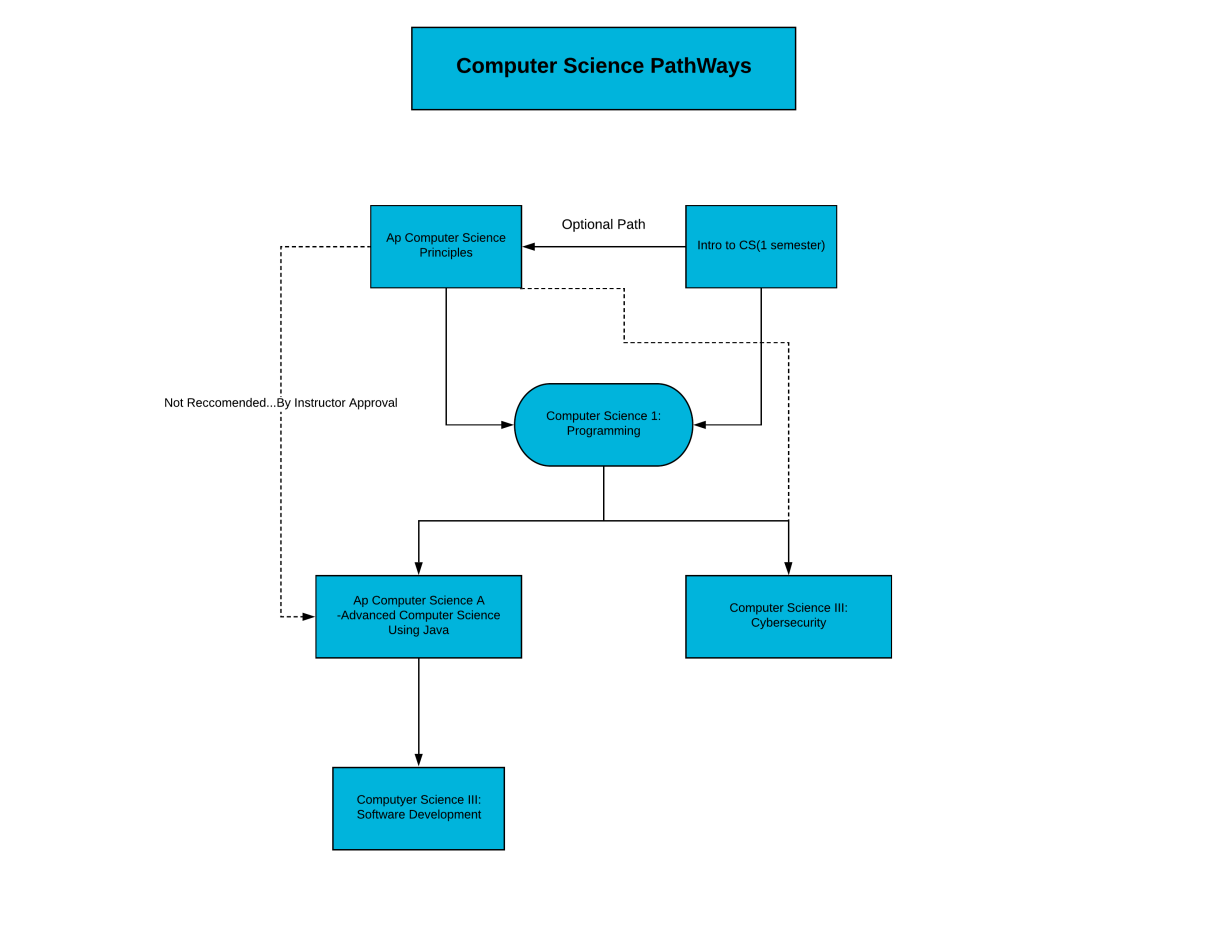
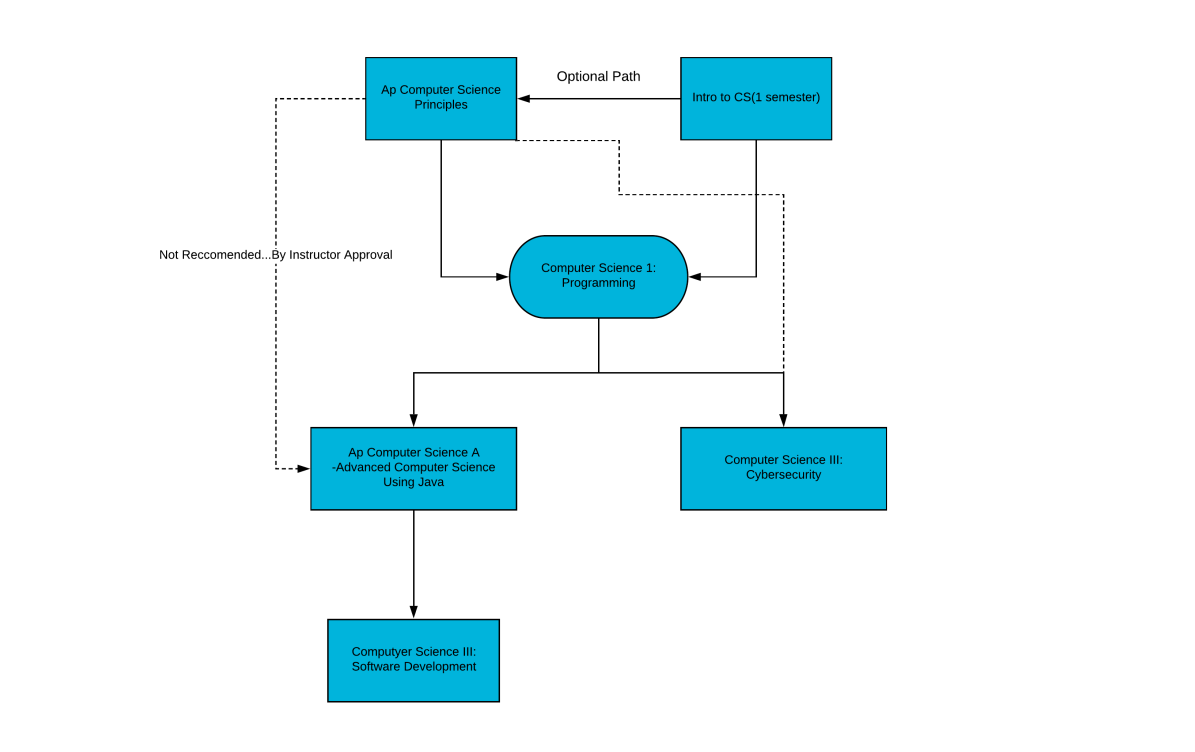
course links and backtop added

diff --git a/src/Data.js b/src/Data.js
@@ -103,63 +103,65 @@ export const otherClubInfo = {
 //courses and other learning resources
 export const courses = [
     {
-        name: "Intro to CS I",
+        name: "Intro to Computer Science",
         description: "Intro to Computer Science is a one-semester, beginner level computer science course intended for students in grades 9-10. The class includes block-based programming and problem-solving for students, and the class requires no prior computer science knowlege. \nPrerequisites: None. \nCredits: Fufills business graduation credit.",
-        url: "https://hsecourses.netlify.app/course/"
+        url: "https://hsecourses.netlify.app/course/introduction-to-computer-science"
     },
     {
         name: "AP Computer Science Principles (AP CSP)",
         description: "AP Computer Science Principles is an advanced placement, year-long, college-level computer science course aimed at teaching students 5 fundamental concepts of computer science throughout the year: Creative Development, Data, Algorithms and Programming, Computer Systems and Networks, and the Impact of Computing. This course is intended for all college bound students, not just those with a strong interest in computer science, and is inteded for students in grades 9-12.\nPrerequisites: Algebra I. \nCredits: Fufills business graduation credit and counts as 3rd science credit for Core 40 Diploma.",
-        url: "https://hsecourses.netlify.app/course/"
+        url: "https://hsecourses.netlify.app/course/ap-computer-science-principles"
     },
     {
         name: "CS I: Programming",
         description: "Computer Science I: Programming is a year-long course that focuses solely on introducing students to programming and teaching students the latest indsutry tools used in the field for grades 9-12. \nPrerequisites: Algebra I.\n Credits: Fufills business graduation credit and counts as 3rd science credit for Core 40 Diploma.",
-        url: "https://hsecourses.netlify.app/course/"
+        url: "https://hsecourses.netlify.app/course/computer-science-i-(programming)"
     },
     {
         name: "AP Computer Science A (Java) (AP CS A)",
         description: "AP Computer Science A (Java) is an advanced placement, year-long, college-level computer science course that focuses on teaching students Object-Oriented programming through the programming language Java. The classes prepares students for the AP Computer Science A Exam, which tests on concepts such as primitive types, objects, boolean expressions and conditionals, iteration, classes, single and multi-dimensional arrays, ArrayList, inheritance, and recursion. This class is recommended for students grades 10-12 that have taken a computer science course prior. Prerequisites: Computer Science I/AP Computer Science Principles (Subject to instructor approval). Credits: Counts as 3rd science credit for Core 40 Diploma.",
-        url: "https://hsecourses.netlify.app/course/"
+        url: "https://hsecourses.netlify.app/course/ap-computer-science-a"
     },
     {
         name: "CS III: Cybersecurity",
         description: "Computer Science III: Cybersecurity is a year long course inteded to teach students in grades 10-12 about the fundamentals of cybersecurity in the modern world, discussing topics such as security principles, personal security, cryptography, physical security, web security, malicious software, and networking fundamentals.\nPrerequiste: AP CS Principles or Computer Science I. \nCredits: Counts as 3rd science credit for Core 40 Diploma.",
-        url: "https://hsecourses.netlify.app/course/"
+        url: "https://hsecourses.netlify.app/course/computer-science-iii:-cybersecurity"
     },
     {
         name: "CS III: Software Development",
         description: "Computer Science III: Software Development is a year long course intended to help students learn the latest industry tools for web and mobile application development through self-study and collaboration. Students are encouraged to make an application for a client second semester and are expected to study and research the necessary tools for such development themselves. \nPrerequisite: AP Computer Science A (Java). Credits: Counts as 3rd Science Credit for Core 40.",
-        url: "https://hsecourses.netlify.app/course/"
+        url: "https://hsecourses.netlify.app/course/computer-science-iii:-software-development"
     },
     {
         name: "Interactive Media",
         description: "Interactive media is a semester long course for grades 10-12 that emphasizes the development of digitially generated or computer enhanced products using multimedia technologies. Such technologies include: video/audio production; digitial imaging; animation; website design, development, and management. This class also allows students to gain experience in various Adobe Suite applications, such as Illustrator, After Effects, Premiere Pro, Photoshop, etc.\nPrerequisites: None. \nCredits: Elective.",
-        url: "https://hsecourses.netlify.app/course/",
+        url: "https://hsecourses.netlify.app/course/interactive-media",
     },
     {
-        name: "Tech Squad (Cyberroyals Internship)",
-        description: "Tech Squad is for students in grades 10-12 who would like to help students and teachers at HSE or elsewhere with their devices and software through general technical support or repairs. Students can join by signing up through the Career Internship application to be placed as an intern at the HSE tech department or in another building.\nPrerequisites: None, however some technical knowledge is expected. \nCredits: Elective."
+        name: "Exploration Internship - Cyberoyals Tech Squad",
+        description: "Tech Squad is for students in grades 10-12 who would like to help students and teachers at HSE or elsewhere with their devices and software through general technical support or repairs. Students can join by signing up through the Career Internship application to be placed as an intern at the HSE tech department or in another building.\nPrerequisites: None, however some technical knowledge is expected. \nCredits: Elective.",
+        url: "https://hsecourses.netlify.app/course/career-exploration-internship---cyberoyals-tech-squad"
     },
     {
-        name: "Digital Applications and Responsibility (Digital Apps)",
-        description: "Digital Applications and Responsibility is a semester long course for students in grades 9-12 to learn how to work with Microsoft products such as powerpoint, word, and excel. Students also learn how to use spreadsheets, present to one another, and collaboration skills. \nPrerequisites: None. \nCredits: Fufills Business graduation credit, dual credit through IU. "
+        name: "Digital Applications and Responsibilities (Digital Apps)",
+        description: "Digital Applications and Responsibility is a semester long course for students in grades 9-12 to learn how to work with Microsoft products such as powerpoint, word, and excel. Students also learn how to use spreadsheets, present to one another, and collaboration skills. \nPrerequisites: None. \nCredits: Fufills Business graduation credit, dual credit through IU.",
+        url: "https://hsecourses.netlify.app/course/digital-applications-and-responsibilities"
     },
     {
-        name: "Ivy Tech - Infomatics & Networking",
-        description: "This year-long dual credit course through Ivy Tech offers students in grades 11-12 an opportunity to take 4 dual credit courses at Ivy Tech that are intended to prepare them for the CompTIA A+ and Network+ Certiication exams. Students attend 4 times a week, with a flex on the fifth day, from 12:15-2:15 at Ivy Tech Noblesville with transport provided. \nPrerequistes: CS I. \nCredits: 4 Dual Credits from Ivy Tech."
+        name: "IT Pathways: Coding, Networking, and Cybersecurity I and II",
+        description: "3 hr each - Cyber Security, Networking, and Coding! In this IT Pathway course, you will explore the world of Information Technology during your first year, then dive deeper into a specific field of your choice during your second year. Utilize CISCO software and participate in hands-on activities. Immerse yourself into projects related to authentic challenges and solutions found in current IT careers. Jumpstart your college and career goals by earning dual credits and certifications. \n ● Dual Credit: Ivy Tech (6-12 credits) INFM 109, SDEV 120; ITSP 15, DBMS 110 or ITSP 175, NETI 119 \n ● Certifications Available: CompTIA ITF+",
+        url: "https://hsecourses.netlify.app/course/it-pathways:-coding,-networking,-and-cybersecurity-i-and-ii"
     },
     {
-        name: "Career Internship",
-        description: "Career internships can be semester or year-long, and allow for 12th grade students to gain valuable, real-life experience in the computer science field prior to going to college or entering the workforce. Students attend for 1-2 periods, with 2 being recommended for those that have after school commitments. \nPrerequisites: Instructor and Counselor Approval. \nCredits: Elective."
+        name: "Career Exploration Internship",
+        description: "Career internships can be semester or year-long, and allow for 12th grade students to gain valuable, real-life experience in the computer science field prior to going to college or entering the workforce. Students attend for 1-2 periods, with 2 being recommended for those that have after school commitments. \nPrerequisites: Instructor and Counselor Approval. \nCredits: Elective.",
+        url: "https://hsecourses.netlify.app/course/career-exploration-internship"
     },
     {
         name: "Advance Career & Technical Ed College Credit",
         description: "This semester long course allows for students in grades 11-12 to gain credits at IUPUI Computing and Informatics classes, with a 50% discount for high school students. Students must be accepted as a high school student through IU, visit the link provided for more details. Prerequisites: Instructor, Counselor, IU Approval. \nCredits: IUPUI Computing and Informatics Credits.",
         url: "https://span.iupui.edu/about-the-program/programs/eligibility/computer-tech-program.html"
-    }
-
-   
+    }   
 ]
 export const recommendations = {
     "CS": [
@@ -240,12 +242,12 @@ export const projects = [
     {
         name: "Club Projects",
         projects: [
-            {
-                name: "HSE Apps",
-                description: "Group of students creating applications for HSE.",
-                image: hseappsProjects,
-                link: "https://hseapps.org/products"
-            },
+            // {
+            //     name: "HSE Apps",
+            //     description: "Group of students creating applications for HSE.",
+            //     image: hseappsProjects,
+            //     link: "https://hseapps.org/products"
+            // },
             {
                 name: "HSE Clubs",
                 description: "Manage, browse, and join clubs in one central place at HSE.",

diff --git a/src/components/Courses.js b/src/components/Courses.js
@@ -11,9 +11,8 @@ const Courses = () => {
 
             <div style={title}>Computing Courses At HSE</div>
             <div style={section}>
-                
                 <List
-                    style={{width:"65%", borderRadius:"15px", marginLeft: "auto", marginRight: "auto"}}
+                    style={{width:"100%", borderRadius:"15px", marginLeft: "auto", marginRight: "auto"}}
                     dataSource={courses}
                     bordered={true}
                     renderItem={item => 
@@ -22,13 +21,14 @@ const Courses = () => {
                                 title={item.name}
                                 description={item.description}
                             />
-                            <a href={item.url} target="_blank">More Info</a>
+                            <a style={{marginLeft:"20px"}} href={item.url} target="_blank">More Info</a>
                         </List.Item>
                     }
                 ></List>
-
             </div>
-            <img src={pathways} style={{width: "80%", marginTop: "0px", marginBottom: "50px"}}/>
+
+            <div style={title}>Computer Science Pathways (Prerequisites Web)</div>
+            <img src={pathways} style={{width: "80%", margin:"0 0 40px"}}/>
             
             <div style={title}>Sample Schedules for Certain Paths</div>
             <div style={{fontWeight: "500", fontSize: "10px", color: "rgba(0, 0, 0, 0.45)"}}>Don't need to take all courses listed in a particular year</div>
@@ -82,3 +82,4 @@ const Courses = () => {
 }
 
 export default Courses
+

diff --git a/src/components/Projects.js b/src/components/Projects.js
@@ -11,19 +11,21 @@ const Projects = () => {
             {projects.map((category) => 
                 <>
                     <div style={title}>{category.name}</div>
-                    <div style={section}>
+                    <div style={{...section, justifyContent:"space-evenly"}}>
                         {category.projects.map((item) => 
                             <Card 
                                 style={{
                                     borderColor:"#d9d9d9", 
                                     borderRadius:"15px", 
-                                    width: 95/category.projects.length + "%"
+                                    width: "28%"
                                 }}
                                 title={item.name}
                             >
                                 <div>{item.description}</div>
-                                <img src={item.image} style={{width:"100%", margin:"15px 0 15px 0", border:"1px solid #f0f0f0", borderRadius:"10px"}}></img>
-                                <a href={item.link}>Learn More</a>
+                                <div style={{display:"flex", justifyContent:"center"}}>
+                                    <img src={item.image} style={{margin:"30px 0", maxHeight:"200px", maxWidth:"100%"}}></img>
+                                </div>
+                                <div><a href={item.link} target="_blank">Learn More</a></div>
                             </Card>
                         )}
                     </div>

diff --git a/src/components/Navbar.js b/src/components/Navbar.js
@@ -39,8 +39,10 @@ const Navbar = () => {
             }}>
                 <div style={block}>
                     <img src={logo} style={{width:"50px"}}/>
+                    &nbsp;&nbsp; 
                     <div style={{color:"white", fontWeight:"500", fontSize:"24px"}}>HSE CS</div>
                 </div>
+
                 {width > 1200?
                     <>
                         <div style={{...block, height:"30px"}}>
@@ -74,7 +76,7 @@ const Navbar = () => {
                             overlay= {
                                 <Menu
                                     onClick={(e) => {setTab(e.key)}}
-                                    style={{margin:"25px -10px 0 0", background:"gray", borderRadius:"10px"}}
+                                    style={{margin:"25px -10px 0 0", background:"rgb(53, 122, 196)", borderRadius:"10px"}}
                                 >
                                     {tabs.map((item, index) => 
                                         <Menu.Item style={{color:"white", fontSize:"20px"}} key={index+1}>

diff --git a/src/App.css b/src/App.css
@@ -64,7 +64,7 @@ html {
 
 .ant-menu-horizontal:not(.ant-menu-dark) > .ant-menu-item:hover, .ant-menu-horizontal:not(.ant-menu-dark) > .ant-menu-submenu:hover, .ant-menu-horizontal:not(.ant-menu-dark) > .ant-menu-item-active, .ant-menu-horizontal:not(.ant-menu-dark) > .ant-menu-submenu-active, .ant-menu-horizontal:not(.ant-menu-dark) > .ant-menu-item-open, .ant-menu-horizontal:not(.ant-menu-dark) > .ant-menu-submenu-open, .ant-menu-horizontal:not(.ant-menu-dark) > .ant-menu-item-selected, .ant-menu-horizontal:not(.ant-menu-dark) > .ant-menu-submenu-selected {
   color: #1890ff;
-  border-bottom: 3px solid white; 
+  border-bottom: 4px solid white; 
 }
 .ant-menu-item {
   height: calc(39px + .4vw + 20px);

diff --git a/src/components/BackToTop.js b/src/components/BackToTop.js
@@ -1,0 +1,19 @@
+import React from 'react'
+
+import {BackTop} from 'antd'
+import {ArrowUpOutlined} from '@ant-design/icons'
+
+
+const BackToTop = () => (
+  <BackTop>
+    <div 
+      style={{height: "50px", width: "50px", borderRadius: "5px",
+      display:"flex", justifyContent:"center", alignItems:"center",
+      backgroundColor: 'rgb(53, 122, 196)', color: 'white'}}
+    >
+      <ArrowUpOutlined style={{color:"white", fontSize: "25px"}}/>
+    </div>
+  </BackTop>
+)
+
+export default BackToTop

diff --git a/src/App.js b/src/App.js
@@ -1,11 +1,16 @@
-import Navbar from './components/Navbar'
 import React from 'react'
 import "antd/dist/antd.css";
 import "./App.css"
 
+import Navbar from './components/Navbar'
+import BackToTop from './components/BackToTop'
+
 const App = () => {
   return (
-    <Navbar/>
+    <>
+      <BackToTop/>
+      <Navbar/>
+    </>
   )
 }
 

diff --git a/public/index.html b/public/index.html
@@ -2,6 +2,7 @@
 <html lang="en">
   <head>
     <meta charset="utf-8" />
+    <link rel="icon" href="%PUBLIC_URL%/hseapps.png" />
     <meta name="viewport" content="width=device-width, initial-scale=1" />
     <meta name="theme-color" content="#000000" />
     <meta
